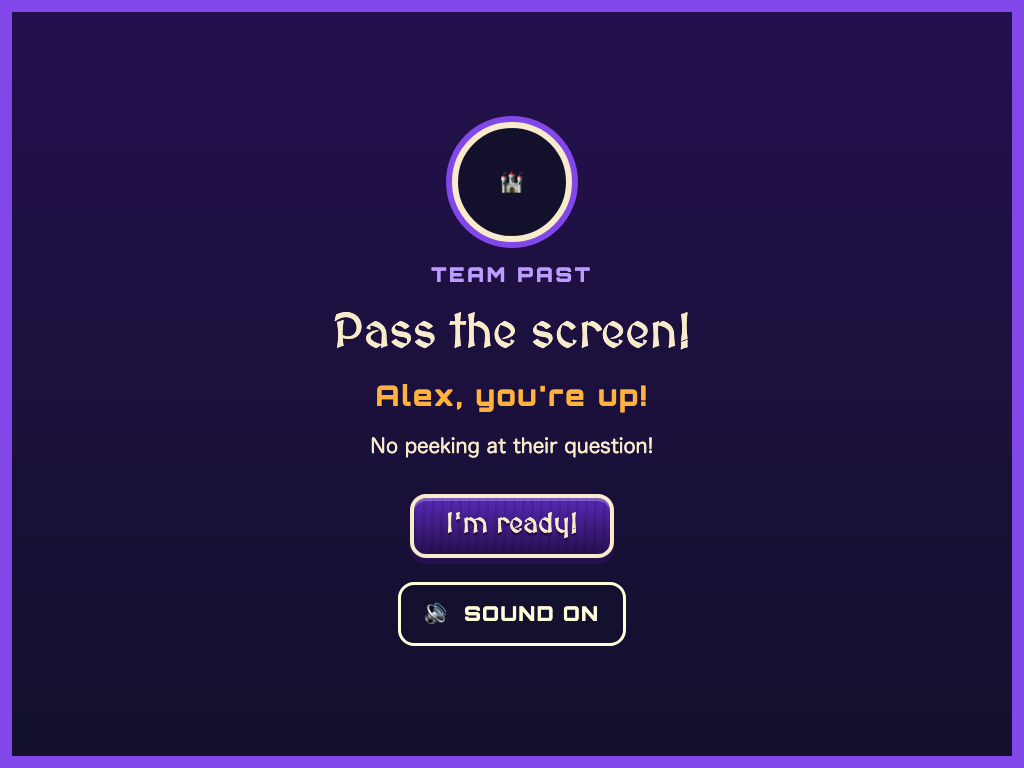
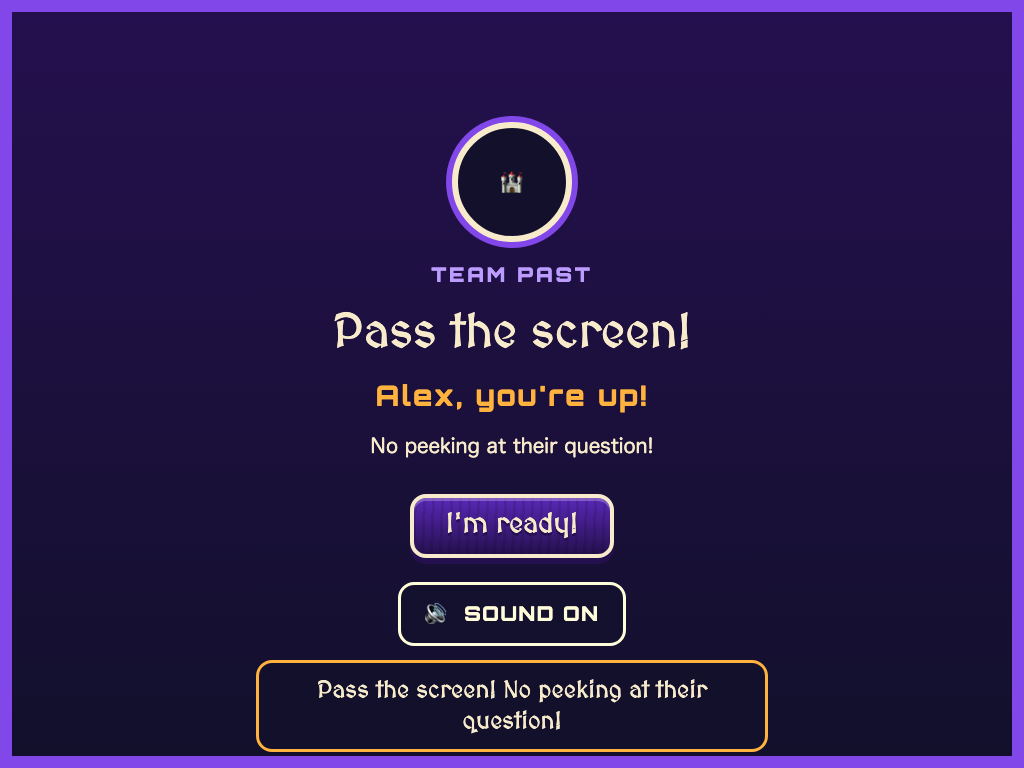
Speak the pass screen line with a caption
Chrono now says "Pass the screen! No peeking at their question!" when the
pass cover opens. The line goes through the AudioManager, so it is silent
before the first tap, while muted, and in a test-driven browser. The caption
shows above the cover either way. "I'm ready!" stops the line and clears
the caption. The line never holds a name or question text.

Changed region(s): [[0.25, 0.8438, 0.75, 1.0]]

diff --git a/tests/ui/covers.test.ts b/tests/ui/covers.test.ts
@@ -129,6 +129,103 @@ describe('pass-the-mouse cover', () => {
   });
 });
 
+describe('pass cover voice line', () => {
+  const LINE = `${PASS_SCREEN.heading} ${PASS_SCREEN.noPeeking}`;
+  const captionLayerZ = () =>
+    Number((document.querySelector('[data-layer="caption"]') as HTMLElement).style.zIndex);
+
+  it('after the first tap, Chrono says the pass line aloud and it shows as a caption', () => {
+    void s.audio.unlock();
+    void s.overlay.showPassScreen({ nextName: 'Sam', nextTeam: 'FUTURE' });
+    expect(s.harness.speech.spoken.map((u) => u.text)).toEqual([LINE]);
+    const bar = q(TEST_IDS.captionBar)!;
+    expect(bar.hidden).toBe(false);
+    expect(bar.textContent).toBe(LINE);
+  });
+
+  it('puts the caption above the pass cover so it can be read', () => {
+    void s.overlay.showPassScreen({ nextName: 'Sam', nextTeam: 'FUTURE' });
+    expect(captionLayerZ()).toBeGreaterThan(Z.cover);
+  });
+
+  it('never says or captions the child\'s name (names stay on the device)', () => {
+    const said: string[] = [];
+    const real = s.audio.speak.bind(s.audio);
+    s.audio.speak = (line, o) => {
+      said.push(line.text, ...line.captions.map((c) => c.text));
+      return real(line, o);
+    };
+    void s.audio.unlock();
+    void s.overlay.showPassScreen({ nextName: 'Zebulon', nextTeam: 'PAST' });
+    expect(said.length).toBeGreaterThan(0);
+    for (const t of said) expect(t).not.toContain('Zebulon');
+  });
+
+  it('makes no sound before the first tap, but the caption still shows', () => {
+    void s.overlay.showPassScreen({ nextName: 'Sam', nextTeam: 'FUTURE' });
+    expect(s.audio.unlocked).toBe(false);
+    expect(s.harness.speech.spoken).toEqual([]);
+    expect(q(TEST_IDS.captionBar)!.textContent).toBe(LINE);
+  });
+
+  it('stays silent when muted, and the caption still shows', () => {
+    void s.audio.unlock();
+    s.audio.setMuted(true);
+    void s.overlay.showPassScreen({ nextName: 'Sam', nextTeam: 'FUTURE' });
+    expect(s.harness.speech.spoken).toEqual([]);
+    expect(q(TEST_IDS.captionBar)!.textContent).toBe(LINE);
+  });
+
+  it('the cover Sound off button hushes the line mid-way', () => {
+    void s.audio.unlock();
+    void s.overlay.showPassScreen({ nextName: 'Sam', nextTeam: 'FUTURE' });
+    const before = s.harness.speech.cancelCalls;
+    click(q('cover-mute'));
+    expect(s.audio.muted).toBe(true);
+    expect(s.harness.speech.cancelCalls).toBeGreaterThan(before);
+  });
+
+  it('hides the caption when captions are off in Settings', () => {
+    s.overlay.applySettings({ ...s.settings, captions: false });
+    void s.overlay.showPassScreen({ nextName: 'Sam', nextTeam: 'FUTURE' });
+    expect(q(TEST_IDS.captionBar)!.hidden).toBe(true);
+  });
+
+  it('"I\'m ready!" skips the line: speech stops and the caption clears', async () => {
+    void s.audio.unlock();
+    let stopped = 0;
+    const realStop = s.audio.stopSpeech.bind(s.audio);
+    s.audio.stopSpeech = () => {
+      stopped++;
+      realStop();
+    };
+    const p = s.overlay.showPassScreen({ nextName: 'Sam', nextTeam: 'FUTURE' });
+    click(q(TEST_IDS.passReady));
+    await p;
+    expect(stopped).toBeGreaterThan(0);
+    expect(q(TEST_IDS.captionBar)!.hidden).toBe(true);
+    expect(captionLayerZ()).toBeLessThan(Z.cover);
+  });
+
+  it('the spoken line holds no question text, even right after a reload', async () => {
+    void s.audio.unlock();
+    const r = s.overlay.showReloadModal({ question: mathQ, team: 'PAST', playerName: 'Alex' });
+    click(q(TEST_IDS.reloadChoice(1)));
+    s.clock.advance(RELOAD.rightAnswerBeatMs);
+    await r;
+    void s.overlay.showPassScreen({ nextName: 'Sam', nextTeam: 'FUTURE' });
+    const spoken = s.harness.speech.spoken.map((u) => u.text).join(' ');
+    expect(spoken).not.toContain(mathQ.prompt);
+    expect(q(TEST_IDS.captionBar)!.textContent).not.toContain(mathQ.prompt);
+  });
+
+  it('works with no audio at all: the caption shows and nothing throws', () => {
+    s = setup({ withAudio: false });
+    void s.overlay.showPassScreen({ nextName: 'Sam', nextTeam: 'FUTURE' });
+    expect(q(TEST_IDS.captionBar)!.textContent).toBe(LINE);
+  });
+});
+
 describe('reload modal', () => {
   const open = (question = mathQ, extra: Record<string, unknown> = {}) =>
     s.overlay.showReloadModal({ question, team: 'PAST', playerName: 'Alex', ...extra });

diff --git a/src/ui/passScreen.ts b/src/ui/passScreen.ts
@@ -1,5 +1,6 @@
 // Pass-the-mouse cover. Opaque and full viewport. It never holds question text.
 import { PASS_SCREEN, TEAM_NAMES } from '../data/copy';
+import { TIMING } from '../game/config';
 import type { UiCtx } from './ctx';
 import { h } from './dom';
 import { createCoverMute } from './muteButton';
@@ -46,12 +47,45 @@ export function showPassScreen(ctx: UiCtx, options: PassScreenOptions): Promise<
       ),
     );
     const close = ctx.openCover('pass', el);
+    const stopLine = sayPassLine(ctx);
     ready.addEventListener('click', () => {
       ctx.sfx('click');
       mute.dispose();
+      stopLine();
       close();
       resolve();
     });
     ready.focus();
   });
+}
+
+/**
+ * Chrono reads the cover's own words aloud, with a caption. The AudioManager keeps it silent
+ * before the first tap, while muted, and in a browser driven by a test tool. The caption shows
+ * either way. The line is fixed text: no name (names never leave the device) and no question.
+ * Returns a function that stops the line and clears the caption ("I'm ready!" is the Skip).
+ */
+function sayPassLine(ctx: UiCtx): () => void {
+  const text = `${PASS_SCREEN.heading} ${PASS_SCREEN.noPeeking}`;
+  const durationMs = Math.max(
+    TIMING.bubbleHoldMs,
+    text.split(/\s+/).length * TIMING.bubbleMsPerWord,
+  );
+  ctx.setCaption(text);
+  try {
+    ctx.audio?.speak(
+      { id: 'pass-line', text, captions: [{ text, startMs: 0 }], durationMs },
+      { onCaption: (t) => ctx.setCaption(t) },
+    );
+  } catch {
+    /* no voice: the caption still shows */
+  }
+  return () => {
+    try {
+      ctx.audio?.stopSpeech();
+    } catch {
+      /* nothing to stop */
+    }
+    ctx.setCaption(null);
+  };
 }

diff --git a/e2e/game.spec.ts b/e2e/game.spec.ts
@@ -79,7 +79,18 @@ test('plays a full match: aim, fire, reload, pass, win, rematch', async ({ page,
   expect(m.turn).toMatchObject({ phase: 'PASS_SCREEN', team: 'PAST', turnNumber: 0 });
   await expectCover(page, 'pass-screen');
   await expect(tid(page, 'reload-modal')).toHaveCount(0);
-  await expect(page.getByText('Pass the screen!')).toBeVisible();
+  await expect(page.getByRole('heading', { name: 'Pass the screen!' })).toBeVisible();
+  // Chrono's pass line has a caption above the cover, clear of the ready button. A browser
+  // driven by a test tool never really speaks it (Regression 17).
+  const caption = tid(page, 'caption-bar');
+  await expect(caption).toHaveText('Pass the screen! No peeking at their question!');
+  await expect(caption).toBeVisible();
+  const [capBox, readyBox] = await Promise.all([
+    caption.boundingBox(),
+    tid(page, 'pass-ready').boundingBox(),
+  ]);
+  expect(capBox!.y).toBeGreaterThanOrEqual(readyBox!.y + readyBox!.height);
+  expect(await page.evaluate(() => window.__silent?.speakCalls)).toBe(0);
   await saveShot(page, browserName, 'pass-screen');
 
   // Other keys on the pass screen must not start anything (Space on the focused

diff --git a/src/ui/overlay.ts b/src/ui/overlay.ts
@@ -125,8 +125,8 @@ export const createOverlay: CreateOverlayWithDeps = (
   };
 
   const raiseCaptions = (): void => {
-    // The question cover reads its text aloud, so its captions must show above it.
-    const above = covers.some((c) => c.kind === 'reload') ? Z.cover + 1 : null;
+    // Both covers speak (the question, and the pass line), so their captions show above them.
+    const above = covers.length > 0 ? Z.cover + 1 : null;
     layer.caption.style.zIndex = String(above ?? (screensOpen > 0 ? Z.screen + 1 : Z.caption));
   };
 

diff --git a/docs/NARRATION.md b/docs/NARRATION.md
@@ -38,9 +38,15 @@ Card title: "Wipeouts and Turns"
 
 **Total:** about 60 seconds.
 
+## Pass screen line (built)
+Each time the pass screen (the cover between turns) opens, Chrono says its own words: "Pass the screen! No peeking at their question!" (`src/ui/passScreen.ts`, built from `PASS_SCREEN.heading` and `PASS_SCREEN.noPeeking`).
+- It goes through the AudioManager, so it is silent before the first tap, while muted, and in a browser driven by a test tool. The caption shows in every case, above the cover, unless captions are off in Settings.
+- "I'm ready!" is its Skip: it stops the line and clears the caption. The cover's Sound button hushes it mid-line.
+- The line is fixed text. It never holds the child's name (names never leave the device, even as a clip request) or any question text.
+- A match against the computer has no pass screen, so it has no pass line.
+
 ## Short replays (optional, build later)
 - Reload tip (5 seconds, plays the first time the Reload modal opens): "Take your time. Fast answers earn bonus scrap, but any answer reloads."
-- Turn tip (4 seconds, first pass screen): "Pass the screen. No peeking!"
 
 ## How the audio is made
 The clips are generated with the Kokoro text-to-speech model (voice `am_michael`) and stored in `db/voice.sqlite` (see `db/README.md` and `public/audio/CREDITS.md`). The site is static, so `python3 scripts/extract-voice-clips.py` copies the five intro clips into `public/audio/voice/` as `.m4a` files (AAC in an MP4 container). Chromium, WebKit and iPad Safari all play that format. A real family recording can replace any clip later: rebuild the database, run the extract script, and commit the files.

diff --git a/INBOX.md b/INBOX.md
@@ -2,7 +2,7 @@
 
 Raw ideas land here. Triage promotes them to BACKLOG.md. Items expire after 30 days.
 
-- (2026-10-15) Follow-ups from the review fixes. (1) The pass screen could speak its line after the first tap. (2) GitHub Pages ignores `public/_headers`, so deploy on Cloudflare Pages to get the security headers. (3) Andy to sign off: if the question card breaks, the turn still reloads with no scrap and Chrono says so (`flow.ts reload()`).
+- (2026-10-15) Follow-ups from the review fixes. (1) GitHub Pages ignores `public/_headers`, so deploy on Cloudflare Pages to get the security headers. (2) Andy to sign off: if the question card breaks, the turn still reloads with no scrap and Chrono says so (`flow.ts reload()`).
 - (2026-10-17) Two-iPad play, kid accounts, matching and a labeled bot: proposal in `docs/plans/2026-10-17-two-player-ipad-plan.md`. Needs Andy on the audio license note and the Override UI change.
 - (2026-10-19) Owner design comments from the canvas (https://claude.ai/artifact/KVA45RChVvDHQsJezUur1v), not yet in the game. Triage into BACKLOG.md and docs/GAME_SPEC.md:
   - Every character has 3 health. At 0 they fall down awkwardly and say something funny (the hit effects and funny falls are in; the 3-health rule is not).
